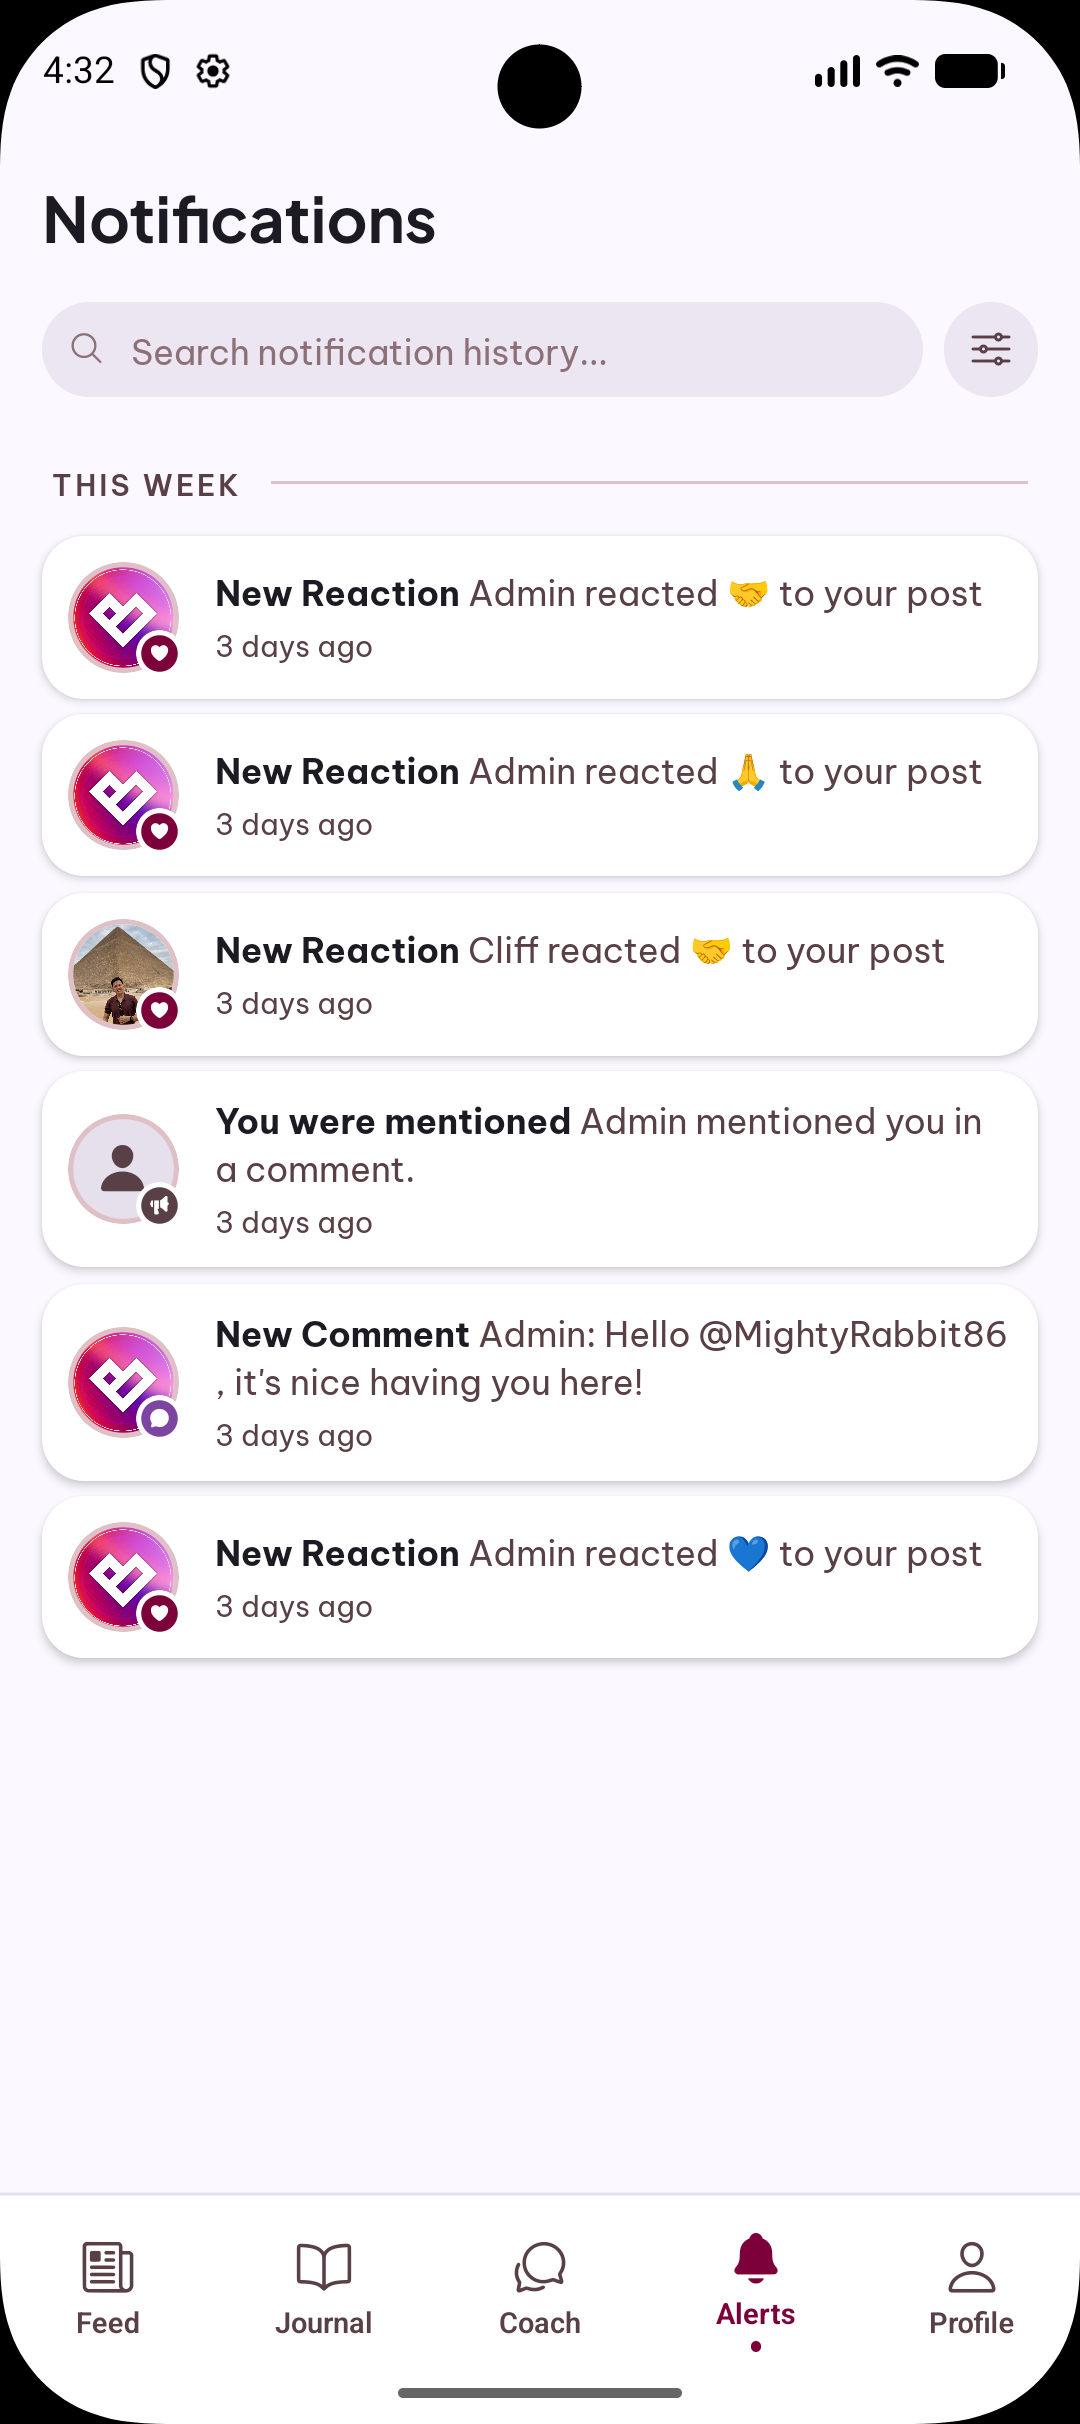
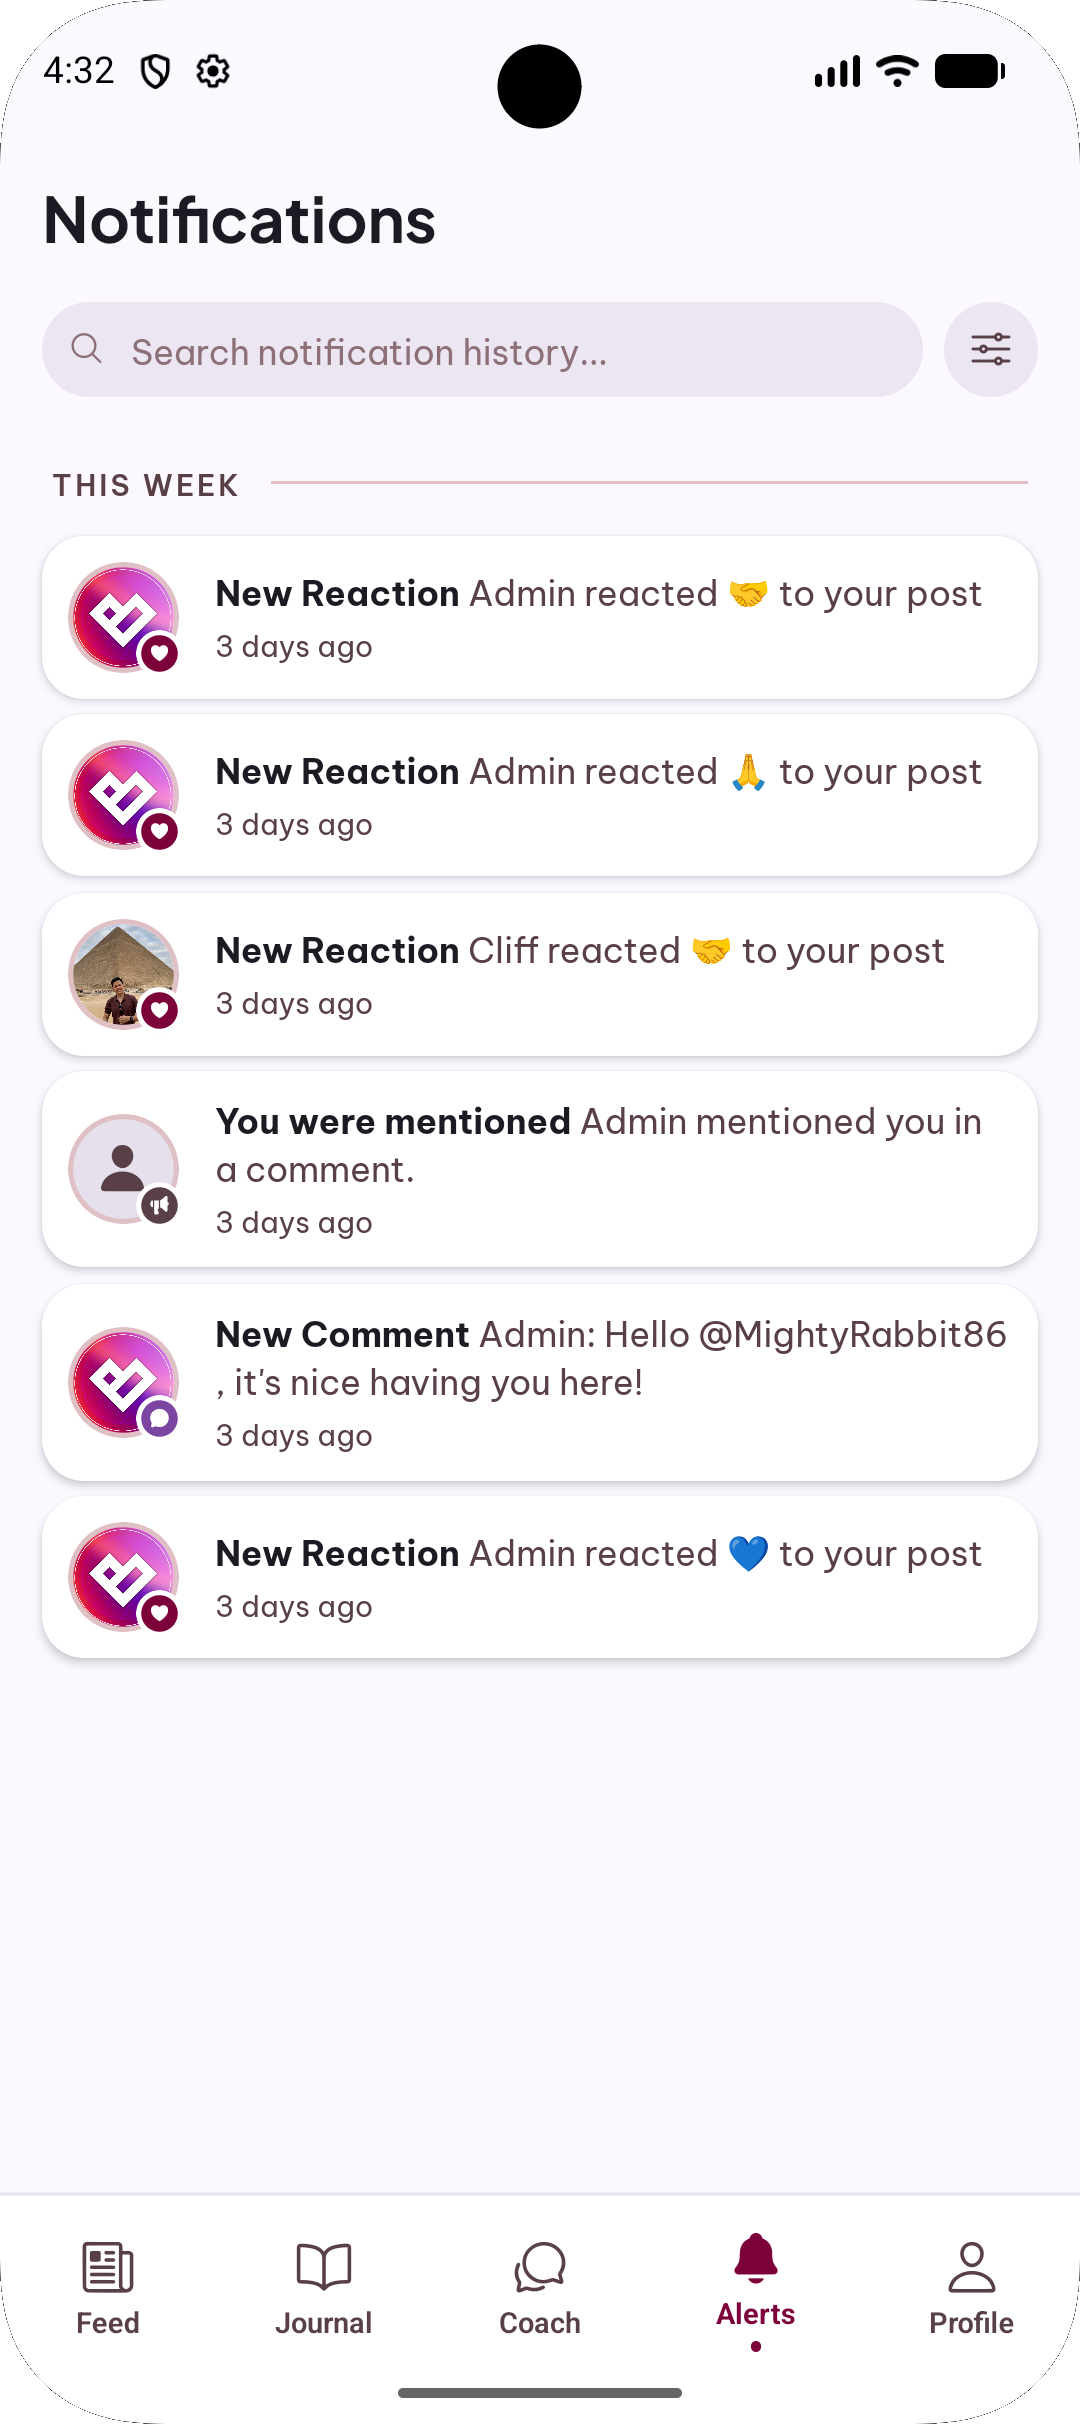
chore: finalize Play listing assets and bump Android versionCode
- bump android.versionCode to 6 for next Play upload
- refresh Android phone screenshot set for store listing
- add feature graphic, Play icon 512, and feature tile pack assets
- add child safety overview page for policy documentation
- update memory-bank active context, progress, and TASK007 notes

diff --git a/apps/mobile/overview/child-safety.html b/apps/mobile/overview/child-safety.html
@@ -1,0 +1,209 @@
+<!doctype html>
+<html lang="en">
+  <head>
+    <meta charset="UTF-8" />
+    <meta name="viewport" content="width=device-width, initial-scale=1.0" />
+    <base href="/overview/" />
+    <title>Child Safety Standards — PUSO Spaze</title>
+    <meta name="description" content="PUSO Spaze Child Safety Standards — our commitment to preventing, detecting, and reporting child sexual abuse and exploitation (CSAE)." />
+    <link rel="icon" href="/favicon.png" type="image/png" />
+    <link rel="preconnect" href="https://fonts.googleapis.com" />
+    <link rel="preconnect" href="https://fonts.gstatic.com" crossorigin />
+    <link href="https://fonts.googleapis.com/css2?family=Plus+Jakarta+Sans:ital,wght@0,400;0,500;0,600;0,700;0,800&family=Be+Vietnam+Pro:wght@400;500;600;700&display=swap" rel="stylesheet" />
+    <style>
+      *, *::before, *::after { margin: 0; padding: 0; box-sizing: border-box; }
+      html { scroll-behavior: smooth; }
+      body { font-family: 'Be Vietnam Pro', sans-serif; line-height: 1.6; color: #1C1B1F; background: #FFFFFF; overflow-x: hidden; }
+      h1, h2, h3 { font-family: 'Plus Jakarta Sans', sans-serif; }
+      img { max-width: 100%; height: auto; display: block; }
+      a { color: inherit; text-decoration: none; }
+      .container { max-width: 1200px; margin: 0 auto; padding: 0 24px; width: 100%; }
+
+      .site-nav { position: sticky; top: 0; z-index: 100; background: rgba(255,255,255,0.95); backdrop-filter: blur(12px); -webkit-backdrop-filter: blur(12px); border-bottom: 1px solid rgba(121,116,126,0.1); }
+      .nav-inner { display: flex; align-items: center; justify-content: space-between; height: 64px; }
+      .nav-brand { display: flex; align-items: center; gap: 10px; font-family: 'Plus Jakarta Sans', sans-serif; font-weight: 800; font-size: 1.25rem; color: #1C1B1F; }
+      .nav-brand img { width: 36px; height: 36px; border-radius: 8px; }
+      .nav-links { display: flex; align-items: center; gap: 32px; list-style: none; }
+      .nav-links a { font-family: 'Be Vietnam Pro', sans-serif; font-size: 0.9rem; font-weight: 500; color: #49454F; transition: color 0.2s; }
+      .nav-links a:hover { color: #7C003A; }
+      .nav-cta { display: inline-flex; align-items: center; padding: 10px 24px; background: linear-gradient(135deg, #A60550, #8149A6); color: #FFFFFF !important; border-radius: 9999px; font-weight: 600; font-size: 0.9rem; box-shadow: 0 4px 16px rgba(124,0,58,0.2); }
+
+      .page-hero { padding: 80px 0 48px; text-align: center; background: #FBF8FE; }
+      .page-hero h1 { font-size: 2.75rem; font-weight: 800; color: #1C1B1F; letter-spacing: -1px; margin-bottom: 12px; }
+      .page-hero p { font-size: 1.05rem; color: #49454F; max-width: 640px; margin: 0 auto; line-height: 1.7; }
+      .breadcrumb { font-size: 0.85rem; color: #49454F; margin-bottom: 16px; }
+      .breadcrumb a { color: #7C003A; font-weight: 600; }
+      .policy-date { font-size: 0.85rem; color: #79747E; margin-top: 8px; }
+
+      .section-pad { padding: 64px 0; }
+      .policy-content { max-width: 800px; margin: 0 auto; }
+      .policy-content h2 { font-size: 1.5rem; font-weight: 700; color: #1C1B1F; margin-top: 40px; margin-bottom: 16px; }
+      .policy-content h3 { font-size: 1.15rem; font-weight: 600; color: #49454F; margin-top: 24px; margin-bottom: 12px; }
+      .policy-content p { font-size: 0.95rem; color: #49454F; line-height: 1.8; margin-bottom: 16px; }
+      .policy-content ul { margin: 0 0 16px 24px; color: #49454F; }
+      .policy-content ul li { font-size: 0.95rem; line-height: 1.8; margin-bottom: 8px; }
+      .policy-content strong { color: #1C1B1F; }
+      .policy-content a { color: #7C003A; font-weight: 500; text-decoration: underline; }
+
+      .callout { background: #FBF8FE; border-left: 4px solid #7C003A; padding: 20px 24px; border-radius: 8px; margin: 24px 0; }
+      .callout p { margin-bottom: 8px; }
+      .callout p:last-child { margin-bottom: 0; }
+
+      .site-footer { background: #1C1B1F; padding: 40px 0; color: #FFFFFF; }
+      .footer-inner { display: flex; align-items: center; justify-content: space-between; flex-wrap: wrap; gap: 24px; }
+      .footer-brand-name { font-family: 'Plus Jakarta Sans', sans-serif; font-weight: 800; font-size: 1.1rem; }
+      .footer-tagline { font-size: 0.8rem; color: rgba(255,255,255,0.5); }
+      .footer-links { display: flex; align-items: center; gap: 24px; list-style: none; }
+      .footer-links a { font-size: 0.85rem; color: rgba(255,255,255,0.6); }
+      .footer-links a:hover { color: #FFFFFF; }
+
+      @media (max-width: 768px) {
+        .page-hero h1 { font-size: 2rem; }
+        .page-hero { padding: 60px 0 36px; }
+        .nav-links { display: none; }
+        .footer-inner { flex-direction: column; text-align: center; }
+        .footer-links { flex-wrap: wrap; justify-content: center; }
+        .policy-content h2 { font-size: 1.3rem; }
+      }
+    </style>
+  </head>
+  <body>
+    <nav class="site-nav" role="navigation">
+      <div class="container nav-inner">
+        <a class="nav-brand" href="index.html">
+          <img src="/icon.png" alt="" width="36" height="36" />
+          PUSO Spaze
+        </a>
+        <ul class="nav-links">
+          <li><a href="index.html#features">Features</a></li>
+          <li><a href="about.html">About</a></li>
+          <li><a href="community.html">Community</a></li>
+          <li><a href="privacy-policy.html">Privacy</a></li>
+          <li><a href="https://puso-spaze.org" class="nav-cta" target="_blank" rel="noopener noreferrer">Get Started</a></li>
+        </ul>
+      </div>
+    </nav>
+
+    <main>
+      <section class="page-hero">
+        <div class="container">
+          <p class="breadcrumb"><a href="index.html">Home</a> / Child Safety Standards</p>
+          <h1>Child Safety Standards</h1>
+          <p>Our commitment to preventing, detecting, and reporting child sexual abuse and exploitation (CSAE) on PUSO Spaze.</p>
+          <p class="policy-date">Effective Date: April 22, 2026</p>
+        </div>
+      </section>
+
+      <section class="section-pad">
+        <div class="container policy-content">
+
+          <h2>1. Our Commitment</h2>
+          <p>PUSO Spaze is a mental wellness community app. The safety of children and young people on our platform is non-negotiable. We adhere to a zero-tolerance policy against child sexual abuse and exploitation (CSAE), including the creation, sharing, solicitation, or promotion of child sexual abuse material (CSAM).</p>
+          <p>This page outlines the standards, controls, and reporting channels we maintain to keep PUSO Spaze a safe space for every user.</p>
+
+          <h2>2. Age Requirement</h2>
+          <ul>
+            <li>PUSO Spaze is intended for users aged <strong>13 and older</strong>.</li>
+            <li>Users under 13 are not permitted to create accounts or use the service.</li>
+            <li>If we become aware that a user under 13 has created an account, we will permanently delete the account and all associated data.</li>
+          </ul>
+
+          <h2>3. Prohibited Content &amp; Conduct</h2>
+          <p>The following are strictly prohibited on PUSO Spaze and will result in immediate account removal and reporting to the relevant authorities:</p>
+          <ul>
+            <li>Child sexual abuse material (CSAM) in any form — text, image, video, or link.</li>
+            <li>Sexualized depictions, descriptions, or discussions of minors.</li>
+            <li>Grooming behavior — building emotional connection with a minor for sexual purposes.</li>
+            <li>Solicitation or trading of CSAM.</li>
+            <li>Sextortion, sexual harassment, or coercion targeting minors.</li>
+            <li>Sharing of personally identifying information of minors without consent.</li>
+            <li>Any content that endangers, exploits, or harms a child.</li>
+          </ul>
+
+          <h2>4. How We Prevent &amp; Detect Abuse</h2>
+
+          <h3>4.1 AI-Powered Moderation</h3>
+          <p>Every post and comment submitted to PUSO Spaze is automatically scanned before publication using a combination of:</p>
+          <ul>
+            <li><strong>Local keyword filters</strong> for high-risk terms.</li>
+            <li><strong>OpenAI Moderation API</strong> to detect sexual content involving minors, harassment, and other policy violations.</li>
+            <li><strong>Default-deny posture</strong> — when moderation is uncertain, content is held for human review rather than auto-published.</li>
+          </ul>
+
+          <h3>4.2 Image Validation</h3>
+          <ul>
+            <li>Uploaded images are validated for type and size on both client and server.</li>
+            <li>All images are stored on Cloudinary with content moderation hooks available.</li>
+          </ul>
+
+          <h3>4.3 Human Review</h3>
+          <ul>
+            <li>Trained coaches and admins review flagged posts, comments, and reports.</li>
+            <li>Coaches have the ability to remove content, suspend users, and escalate cases.</li>
+          </ul>
+
+          <h2>5. In-App Reporting</h2>
+          <p>Every user can report content or behavior that violates our standards directly inside the app:</p>
+          <ul>
+            <li>Tap the <strong>⋯ (more)</strong> menu on any post or comment and select <strong>Report</strong>.</li>
+            <li>Reports are sent to our coach and admin team for immediate review.</li>
+            <li>Users can also block other users to prevent further interaction.</li>
+            <li>Reports involving suspected CSAE are prioritized and acted on with urgency.</li>
+          </ul>
+
+          <h2>6. Reporting CSAE to Authorities</h2>
+          <p>When CSAE is identified on PUSO Spaze, we:</p>
+          <ul>
+            <li>Immediately remove the offending content.</li>
+            <li>Suspend or permanently terminate the responsible account(s).</li>
+            <li>Preserve relevant records for law enforcement.</li>
+            <li>Report to the <strong>National Center for Missing &amp; Exploited Children (NCMEC)</strong> via the CyberTipline at <a href="https://report.cybertip.org" target="_blank" rel="noopener noreferrer">report.cybertip.org</a>, and to other regional authorities as required by law.</li>
+          </ul>
+
+          <h2>7. Reporting CSAE to PUSO Spaze</h2>
+          <div class="callout">
+            <p>If you witness or suspect CSAE on PUSO Spaze, please report it immediately:</p>
+            <p><strong>Email:</strong> <a href="mailto:cliffordmarkmusni@gmail.com">cliffordmarkmusni@gmail.com</a></p>
+            <p><strong>In-app:</strong> Use the Report option on the post or comment.</p>
+            <p>For emergencies involving an imminent threat to a child, contact your local emergency services first.</p>
+          </div>
+
+          <h2>8. Designated Child Safety Contact</h2>
+          <p>Our designated point of contact for child safety matters is reachable at <a href="mailto:cliffordmarkmusni@gmail.com">cliffordmarkmusni@gmail.com</a>. We respond to verified reports as quickly as possible.</p>
+
+          <h2>9. Compliance With Applicable Laws</h2>
+          <p>PUSO Spaze complies with all applicable child safety laws in the jurisdictions where we operate, including but not limited to:</p>
+          <ul>
+            <li>U.S. federal laws on the reporting of CSAM (18 U.S.C. § 2258A).</li>
+            <li>The Children's Online Privacy Protection Act (COPPA).</li>
+            <li>Relevant child protection laws in the Philippines and other regions.</li>
+            <li>Google Play's <a href="https://support.google.com/googleplay/android-developer/answer/9888379" target="_blank" rel="noopener noreferrer">Child Safety Standards Policy</a>.</li>
+          </ul>
+
+          <h2>10. Continuous Improvement</h2>
+          <p>We regularly review and update our moderation tooling, reporting flows, and coach training to strengthen child safety on the platform. This page is updated when our standards change.</p>
+
+          <h2>11. Contact</h2>
+          <p>For questions about these Child Safety Standards, contact us at <a href="mailto:cliffordmarkmusni@gmail.com">cliffordmarkmusni@gmail.com</a>.</p>
+
+        </div>
+      </section>
+    </main>
+
+    <footer class="site-footer">
+      <div class="container footer-inner">
+        <div>
+          <div class="footer-brand-name">PUSO Spaze</div>
+          <div class="footer-tagline">A safe space for hearts.</div>
+        </div>
+        <ul class="footer-links">
+          <li><a href="index.html">Home</a></li>
+          <li><a href="about.html">About</a></li>
+          <li><a href="community.html">Community</a></li>
+          <li><a href="privacy-policy.html">Privacy</a></li>
+          <li><a href="child-safety.html">Child Safety</a></li>
+        </ul>
+      </div>
+    </footer>
+  </body>
+</html>

diff --git a/memory-bank/progress.md b/memory-bank/progress.md
@@ -1,6 +1,6 @@
 # Progress — PUSO Spaze
 
-**Last Updated:** April 22, 2026 (7th deployment cycle)
+**Last Updated:** April 22, 2026 (8th deployment cycle)
 
 ## What Works
 - **Authentication** — Username-based login (custom or anonymous), coach login via invite codes, device binding (native + web), **JWT token auth on all protected endpoints**, **PIN-based cross-device login** (6-digit PIN auto-generated, used for login from new devices)
@@ -52,6 +52,8 @@
 - **Coach Alerts for New Member Posts** — Coaches/admins now receive a system notification when a regular member publishes a new post
 - **Android Branding Assets** — App icons, splash art, PWA icons, overview imagery, and Android phone/tablet screenshots refreshed for release materials
 - **Android/Tablet Layout Polish** — Home/Journal FAB spacing, coach dashboard/member list scrolling, right-rail bottom padding, and coach carousel spacing adjusted to clear native bottom chrome on tablets and phones
+- **Play Listing Asset Pack** — Feature graphic, 512x512 Play icon, feature tiles, and refreshed Android phone screenshots prepared for Play Console submission materials
+- **Android Version Bump** — `android.versionCode` advanced to `6` in app config to keep Play upload sequence moving forward
 - **QA Test Suites** — `full-qa-pass.mjs` (100+ tests, 18 sections), `new-features-qa.mjs` (anon names + stats), `functional.test.ts` (56 spec tests), `break-it.mjs` (OWASP Top 10 adversarial suite)
 - **QA Alignment** — Full QA pass script now matches current API contracts for PIN login, recovery requests, report endpoint naming, and notification toggle payloads
 

diff --git a/memory-bank/activeContext.md b/memory-bank/activeContext.md
@@ -1,6 +1,6 @@
 # Active Context — PUSO Spaze
 
-**Last Updated:** April 22, 2026 (7th deployment cycle)
+**Last Updated:** April 22, 2026 (8th deployment cycle)
 
 ## Current Work Focus
 - Google Play production release readiness: in-app account deletion, production EAS config, Android assets/screenshots, notification permission
@@ -17,6 +17,12 @@
 - Rate limiting on PIN login and recovery requests (upcoming)
 
 ## Recent Changes
+
+### Play Listing Asset Finalization + Version Bump (April 22, 2026)
+- **ANDROID BUILD NUMBER**: `apps/mobile/app.json` `android.versionCode` increased from `5` to `6` for the next Play submission artifact
+- **PHONE SCREENSHOT REFRESH**: Updated Android phone screenshots in `apps/mobile/assets/screens/android-phone/` (`feed`, `journal`, `login`, `notifications`, `profile`, `spaze-coach`)
+- **NEW PLAY LISTING ASSETS**: Added `apps/mobile/assets/feature-graphic.png`, `apps/mobile/assets/play-store-icon-512.png`, and curated feature tiles under `apps/mobile/assets/features/01-05.png`
+- **ADDITIONAL OVERVIEW DOC**: Added `apps/mobile/overview/child-safety.html` for policy/compliance references alongside the existing privacy policy materials
 
 ### Google Play Release Readiness + Android Asset Refresh (April 22, 2026)
 - **PLAY POLICY / ACCOUNT DELETION**: Added owner-only `DELETE /api/users/:userId` in `userController.ts` and registered it in `userRoutes.ts`; deletion hard-removes the user via Prisma transaction and explicitly clears `RecoveryRequest` rows by `displayName`

diff --git a/memory-bank/tasks/TASK007-google-play-release-readiness.md b/memory-bank/tasks/TASK007-google-play-release-readiness.md
@@ -72,3 +72,9 @@ Get the Android app ready for a first **Production**-track release on the Google
 - Verified `POST_NOTIFICATIONS` permission remains present for Android 13+.
 - Corrected adaptive icon background back to the theme canvas color (`#FCF8FF`) so release assets stay aligned with the app theme and deployment checklist.
 - Release readiness work now also includes refreshed Android phone/tablet screenshot folders under `apps/mobile/assets/screens/` and mirrored web/public overview assets.
+
+### April 22, 2026 (later)
+- Bumped Android `versionCode` from `5` to `6` for the next Play upload cycle.
+- Refreshed Android phone screenshots (`feed`, `journal`, `login`, `notifications`, `profile`, `spaze-coach`) to newer captures under `apps/mobile/assets/screens/android-phone/`.
+- Added Play listing collateral assets: `feature-graphic.png`, `play-store-icon-512.png`, and feature tile set `apps/mobile/assets/features/01-05.png`.
+- Added `apps/mobile/overview/child-safety.html` for additional policy/compliance documentation support.

diff --git a/memory-bank/tasks/_index.md b/memory-bank/tasks/_index.md
@@ -1,7 +1,7 @@
 # Tasks Index
 
 ## In Progress
-- [TASK007] Google Play Store release readiness — Permissions, account-deletion endpoint + UI, production EAS config, Android screenshot/icon refresh; pending EAS build + Play listing submission (updated Apr 22)
+- [TASK007] Google Play Store release readiness — Permissions, account-deletion endpoint + UI, production EAS config, Android screenshot/icon refresh + feature graphic pack, versionCode 6; pending EAS build + Play listing submission (updated Apr 22)
 - [TASK001] Android native build — Emulator launch + expo run:android attempted; still needs device smoke test and APK verification (updated Apr 22)
 
 ## Pending
